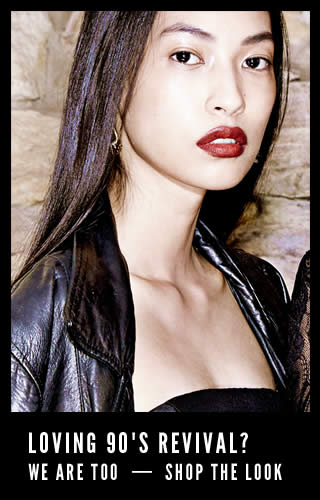
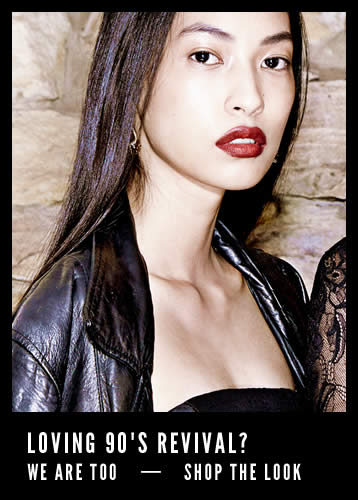
updated homepage graphics, margins and header nav

diff --git a/app/assets/stylesheets/partials/_header.css.scss b/app/assets/stylesheets/partials/_header.css.scss
@@ -162,7 +162,7 @@
 		letter-spacing: 0.1em;
 		position: relative;
 		z-index: 20;
-		height: 51px;
+		height: 53px;
 		@extend .clearfix;
 		a { 
 			color: inherit;	
@@ -170,7 +170,7 @@
 		}
 		.fright {
 			width: ($navWidth - ($navWhyUs + 10));
-			height: 27px;
+			
 		}
 		.fleft {
 			width: $navWhyUs;
@@ -178,7 +178,8 @@
 		nav {
 			display: inline-block;
 			border:solid 2px #000;
-			padding: 15px 0;
+			padding: 15px 0 0 0;
+			height: 44px;
 			li { 
 				display: inline-block;
 				vertical-align: top;

diff --git a/app/assets/stylesheets/partials/_front.css.scss b/app/assets/stylesheets/partials/_front.css.scss
@@ -91,7 +91,11 @@
 	}
 	.tile {
 		display: inline-block;
-		margin-right: 86px;
+		margin-right: 30px;
+		img {
+			display: block;
+			width: 358px;
+		}
 		&:last-child {
 			margin-right: 0;
 		}
